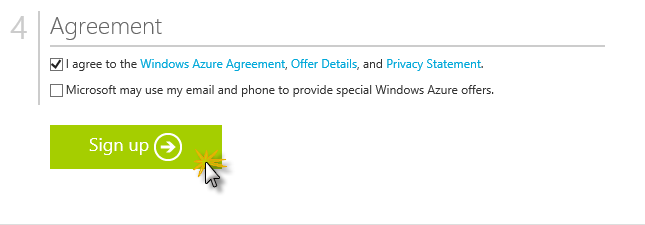
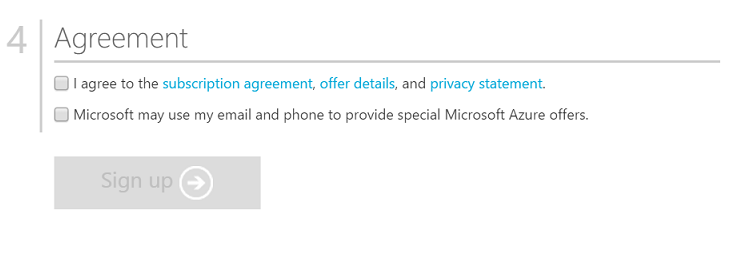
Create Azure and Activate MSDN Benefits HOL update. Images, proofing, branding.

Changed region(s): [[0.0, 0.0622, 0.9612, 0.4667], [0.062, 0.5289, 0.3721, 0.8711], [0.0, 0.9956, 1.0, 1.0]]

diff --git a/HOL/creating-azure-account-activating-msdn-benefits/README.md b/HOL/creating-azure-account-activating-msdn-benefits/README.md
@@ -1,25 +1,25 @@
-Creating a trial Windows Azure account and activating MSDN benefits
+Creating a trial Microsoft Azure account and activating MSDN benefits
 ===================================================================
 
-What is Azure? In short, it’s Microsoft’s cloud platform: a growing collection of integrated services —compute, storage, data, networking, and app— that help you move faster, do more, and save money. You can build infrastructure, develop modern applications, gain insights from data, manage identity and access and more.
+What is Azure? In short, it’s Microsoft’s cloud platform: a growing collection of integrated services —compute, storage, data, networking, and apps— that help you move faster, do more, and save money. You can build infrastructure, develop modern applications, gain insights from data, manage identity and access and more.
 
-In this lab you will create a free trial Windows Azure account, and you will activate the benefits available to MSDN subscribers.
+In this lab you will create a free trial Microsoft Azure account, and you will activate the benefits available to MSDN subscribers.
 
 This lab includes the following tasks:
 
-1. [Creating a trial Windows Azure Account](#Task1)
+1. [Creating a trial Microsoft Azure Account](#Task1)
 1. [Activating MSDN benefits](#Task2)
 
 <a name="Task1"></a>
-##Creating a trial Windows Azure Account
+##Creating a trial Microsoft Azure Account
 
-There are several ways to get an Azure subscription, such as the free trial subscription, the **pay-as-you-go** subscription, which has no minimums or commitments and you can cancel anytime; **Enterprise agreement** subscriptions, or you can buy one from a Microsoft retailer. In this task you are going to create a free trial subscription.
+There are several ways to get an Azure subscription, such as the free trial subscription, the **pay-as-you-go** subscription, which has no minimums or commitments and you can cancel any time; **Enterprise agreement** subscriptions, or you can buy one from a Microsoft retailer. In this task you are going to create a free trial subscription.
 
-1. Browse to the following page http://azure.microsoft.com/en-us/pricing/free-trial/ to obtain a free trail account.
+1. Browse to the following page http://azure.microsoft.com/en-us/pricing/free-trial/ to obtain a free trial account.
 2. Click the **Try it Now** button.
 3. Enter the credentials for the _Microsoft account_ that you want to use. You will be redirected to the **Sign up** page.
 
-	> **Note:** Some of the following sections could be ommited in the Sign up process, if you recently verified your Microsoft account.
+	> **Note:** Some of the following sections could be omitted in the Sign up process, if you recently verified your Microsoft account.
 
 4. Enter your personal information in the **About you** section. If you have previously loaded this info in your Microsoft Account, it will be automatically populated.
 
@@ -46,7 +46,7 @@ There are several ways to get an Azure subscription, such as the free trial subs
 	
 	> **Note:** You may be prompted to agree the User Consent in order to enter your payment information. If this happens, after reading the dialog, click **Agree**.
 
-8. In the **Agreement** section, check the **I agree to the Windows Azure Agreement, Offer Details, and Privacy Statement** option, and click **Sign up**
+8. In the **Agreement** section, check the **I agree to the subscription Agreement, offer details, and privacy statement** option, and click **Sign up**
 
 9. Your free subscription will be set up, and after a while, you can start using it. Notice that you will be informed when the subscription expires.
 
@@ -60,7 +60,7 @@ There are several ways to get an Azure subscription, such as the free trial subs
 	
 	> **Note:** Your credit card will not be billed, unless you remove the spending limits. If you run out of credit, your services will be shut down unless you choose to be billed.
 	
-10. Cick the **Portal** link at the top-right of the page, to navigate to the **Azure Management Portal**. You will be greeted by the **Windows Azure Tour** dialog, which gives you a sense on how to move around in the Azure portal.
+10. Click the **Portal** link at the top-right of the page, to navigate to the **Azure Management Portal**. You will be greeted by the **Windows Azure Tour** dialog, which gives you a sense on how to move around in the Azure portal.
 
 	![Windows Azure Tour](images/AzureTour.png?raw=true)  
 	_Windows Azure Tour_  
